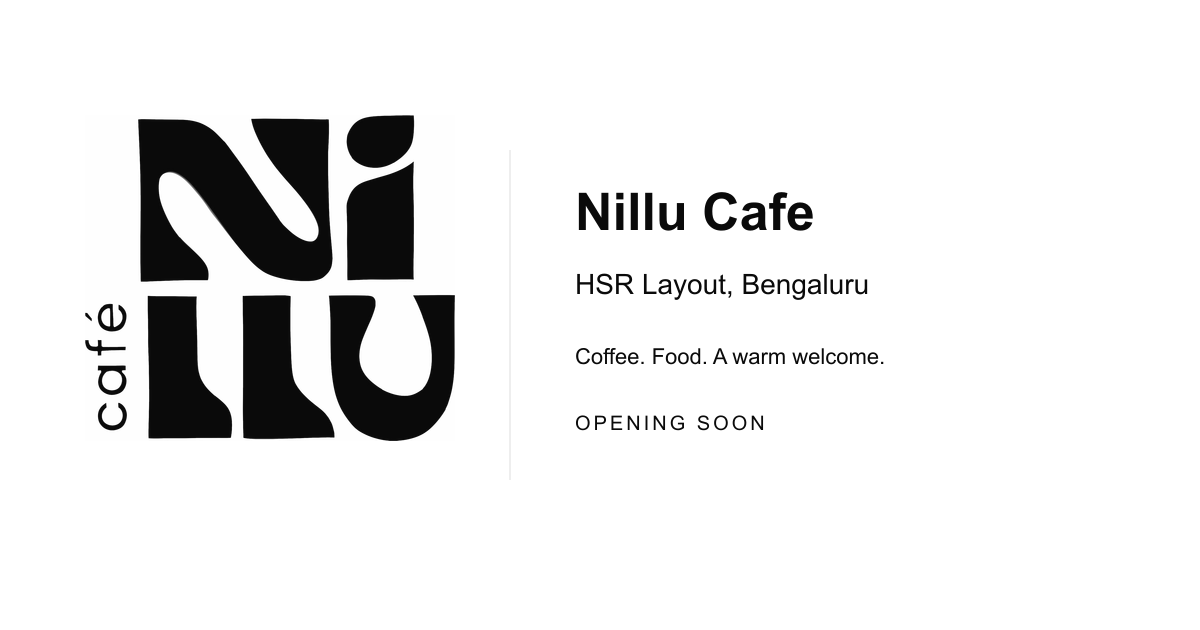
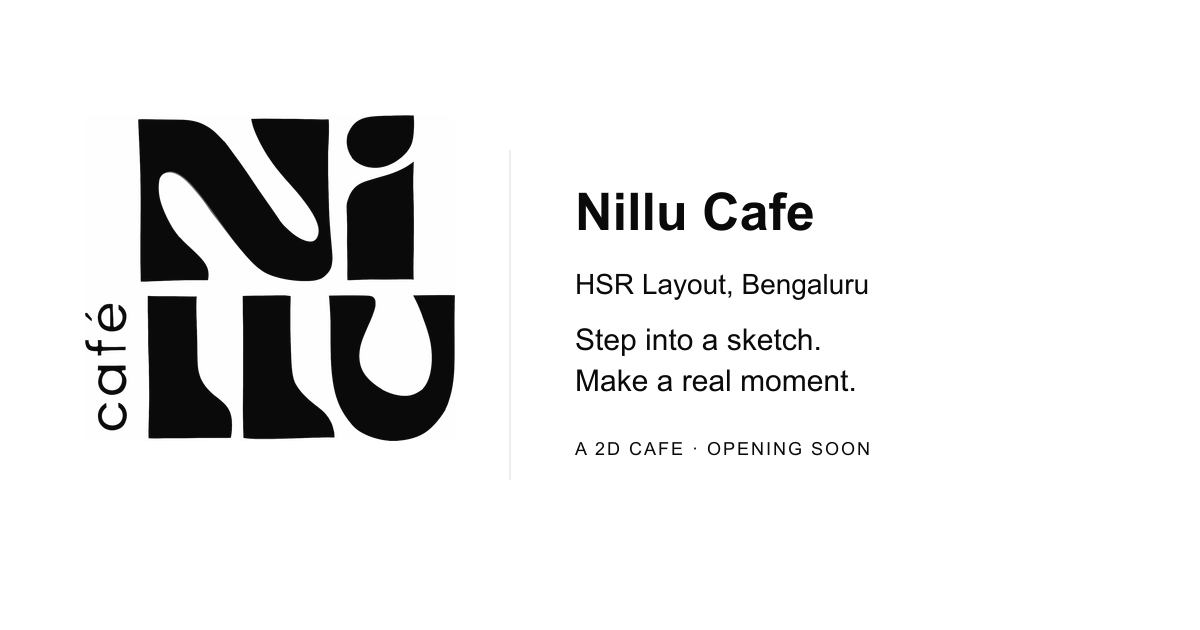
Introduce 2D cafe positioning and align Pages publishing

Changed region(s): [[0.4625, 0.5127, 0.74, 0.6333], [0.4625, 0.6635, 0.74, 0.7238]]

diff --git a/src/App.tsx b/src/App.tsx
@@ -23,7 +23,7 @@ export default function App() {
   <SiteHeader/>
   <main id="top">
    <Suspense fallback={<div className="experience-loading">Preparing your pause…</div>}><WalkIdentity embedded/></Suspense>
-   <section id="about" className="about-section"><Reveal><span className="kicker">OUR STORY</span><h2>Our name means stop.<br/><em>Our welcome invites you to stay.</em></h2><div className="about-bottom"><StoryWord/><p>“<span lang="kn">ನಿಲ್ಲು</span>” means “stop” in Kannada. That simple word holds the idea behind Nillu Cafe: a place to step out of the everyday rush, enjoy something good, and spend time with the people who matter—including yourself.</p></div></Reveal></section>
+   <section id="about" className="about-section"><Reveal><span className="kicker">OUR STORY</span><h2>Our name means stop.<br/><em>Our space gives you a reason.</em></h2><div className="about-bottom"><StoryWord/><p>“<span lang="kn">ನಿಲ್ಲು</span>” means “stop” in Kannada. We’re bringing that invitation to life through an illustrated 2D setting, food to look forward to, and a warm welcome. Come for a coffee, a catch-up, or a celebration of your own.</p></div></Reveal></section>
    <div className="experience-island"><Suspense fallback={<div className="experience-loading">Preparing your pause…</div>}><Experience/></Suspense></div>
    <section className="bites-section" id="bites"><Reveal><span className="kicker">QUICK SNACKS</span><h2>A little bite.<br/>A longer conversation.</h2><p>A snack between plans or something to share across the table. Sometimes, a small bite is all you need to stay a little longer.</p></Reveal><span className="bites-word" aria-hidden="true">little<br/><em>bites.</em></span></section>
    <section className="hospitality-section" id="hospitality"><Reveal><span className="kicker">THE NILLU WAY</span><h2>Good food brings you in.<br/><em>A warm welcome makes you stay.</em></h2><p className="hospitality-lead">At Nillu, hospitality means listening, paying attention, and making room for the way you want to spend your time—alone, together, or celebrating.</p><div className="service-grid"><article><span>01 / THE EVERYDAY</span><h3>Time for yourself.</h3><p>A coffee, a snack, and a moment to enjoy your own company.</p></article><article><span>02 / TOGETHER</span><h3>Time together.</h3><p>Meet for a catch-up, share something to eat, and let the conversation take its time.</p></article><article><span>03 / THE CELEBRATIONS</span><h3>Something to celebrate.</h3><p>Custom designs and 2D cakes for birthdays, milestones, and moments worth marking.</p></article></div></Reveal></section>
@@ -31,6 +31,6 @@ export default function App() {
    <Visit/>
    <section className="closing" id="pause"><Reveal><span className="kicker">COFFEE. FOOD. A WARM WELCOME.</span><p lang="kn" className="regional-word">ಮತ್ತೆ ಬನ್ನಿ</p><h2>Come for a coffee.<br/><em>Stay for your own reasons.</em></h2><a href="#top" className="closing-link">Back to the beginning <span>↑</span></a></Reveal></section>
   </main>
-  <footer className="site-footer"><a href="#top"><img src={logo} alt="Nillu Cafe" width={1304} height={1148}/></a><p>A PLACE WORTH PAUSING FOR.</p><span>© {new Date().getFullYear()} Nillu Cafe</span><small>Food visuals are illustrative; actual presentation may vary.</small></footer>
+  <footer className="site-footer"><a href="#top"><img src={logo} alt="Nillu Cafe" width={1304} height={1148}/></a><p>STEP INTO A SKETCH. MAKE A REAL MOMENT.</p><span>© {new Date().getFullYear()} Nillu Cafe</span><small>Food visuals are illustrative; actual presentation may vary.</small></footer>
  </>
 }

diff --git a/src/components/WalkIdentity.tsx b/src/components/WalkIdentity.tsx
@@ -42,8 +42,8 @@ export default function WalkIdentity({embedded=false}:{embedded?:boolean}){
  return <div className={`walk-preview ${embedded?'walk-embedded':''}`}>
   {!embedded&&<header className="walk-preview-header"><a href="/" className="walk-brand" aria-label="Nillu Cafe current website"><img src={logo} alt="Nillu Cafe" width={1304} height={1148}/><sup>™</sup></a><span>A NILLU STORY</span><a href="/">Current website <span aria-hidden="true">↗</span></a></header>}
   <section className="walk-story" aria-labelledby={embedded?'site-title':'walk-title'}>
-   {embedded&&<h1 id="site-title" className="sr-only">Nillu Cafe in HSR Layout, Bengaluru — opening soon</h1>}
-   <div className="walk-copy"><p className="walk-location">Opening soon.<span>HSR Layout, Bengaluru</span></p><div key={phase} className={phase==='walk'?'':'walk-copy-enter'}><span className="walk-kicker">{current.number}</span><Heading id="walk-title" className="walk-title">{current.title}<br/><em>{current.accent}</em></Heading><p className="walk-support">{current.copy}</p></div></div>
+   {embedded&&<h1 id="site-title" className="sr-only">Nillu Cafe in HSR Layout, Bengaluru — a 2D cafe opening soon</h1>}
+   <div className="walk-copy"><p className="walk-location">Opening soon.<span>A 2D café · HSR Layout, Bengaluru</span></p><div key={phase} className={phase==='walk'?'':'walk-copy-enter'}><span className="walk-kicker">{current.number}</span><Heading id="walk-title" className={`walk-title ${phase==='walk'||phase==='nillu'?'walk-title-sketch':''}`}>{current.title}<br/><em>{current.accent}</em></Heading><p className="walk-support">{current.copy}</p></div></div>
    <div className="walk-stage" role="img" aria-label="A Chaplin-inspired character in a bowler hat, fitted jacket, and oversized shoes walks in, catches a branded takeaway coffee falling from above, takes a sip, smiles as a few hearts rise and fade, pauses, and reshapes into the original Nillu Cafe logo.">{failed?<img className="walk-fallback" src={logo} alt="Nillu Cafe"/>:<canvas ref={canvas}/>}</div>
    {!embedded&&<div className="walk-controls"><div className="walk-playback"><button className="walk-play" onClick={toggle} disabled={!ready||reduced} aria-label={playing?'Pause animation':elapsed.current>=WALK_DURATION?'Replay animation':'Play animation'}>{playing?'Ⅱ':'▷'}</button><button className="walk-replay" onClick={replay} disabled={!ready||reduced}>Watch again <span aria-hidden="true">↺</span></button></div><div className="walk-chapters" aria-label="Animation chapters">{(['walk','coffee','pause','become','nillu'] as const).map(p=><button data-seek={p} key={p} onClick={()=>seek(WALK_STOPS[p])} className={phase===p?'active':''} aria-pressed={phase===p}>{p==='become'?'Transform':p==='nillu'?'Nillu':p==='walk'?'Walk':p==='coffee'?'Coffee':'Pause'}</button>)}</div>{embedded?<a className="walk-signoff walk-explore" href="#explore">Explore food & drinks ↓</a>:<span className="walk-signoff">PAUSE. STAY. ENJOY.</span>}<label className="walk-scrubber"><span className="sr-only">Animation progress</span><input type="range" min="0" max="1" step=".001" value={progress} onChange={e=>seek(Number(e.target.value)*WALK_DURATION)} aria-valuetext={`${Math.round(progress*100)} percent, ${phase}`}/></label></div>}
    {embedded&&<a className="walk-discover" href="#explore">Explore food & drinks <span aria-hidden="true">↓</span></a>}

diff --git a/src/data/walkStory.ts b/src/data/walkStory.ts
@@ -1,9 +1,9 @@
 import type { Phase } from '../lib/walkTimeline'
 
 export const WALK_STORY:Record<Phase,{number:string;title:string;accent:string;copy:string}>={
- walk:{number:'01 / THE WALK',title:'Somewhere',accent:'to be.',copy:'A day full of places to go and things to do.'},
+ walk:{number:'01 / STEP INSIDE',title:'Step into a sketch.',accent:'Make a real moment.',copy:'A playful 2D café, coming soon to HSR Layout. Coffee, food, something sweet—and a warm welcome.'},
  coffee:{number:'02 / THE COFFEE',title:'A reason',accent:'to stop.',copy:'Sometimes, it starts with a coffee.'},
  pause:{number:'03 / THE PAUSE',title:'One sip.',accent:'A little joy.',copy:'Enjoy the sip. Let the day wait a moment.'},
  become:{number:'04 / TAKING SHAPE',title:'That’s',accent:'Nillu.',copy:'Kannada for “stop.” Our invitation to slow down.'},
- nillu:{number:'05 / NILLU CAFE',title:'A place worth',accent:'pausing for.',copy:'Coffee, fresh flavours, and a warm welcome at Nillu Cafe.'},
+ nillu:{number:'05 / NILLU CAFE',title:'Step into a sketch.',accent:'Make a real moment.',copy:'A playful 2D café, coming soon to HSR Layout. Coffee, food, something sweet—and a warm welcome.'},
 }

diff --git a/src/data/site.ts b/src/data/site.ts
@@ -4,10 +4,10 @@ import { VISIT } from './visit.ts'
 export const SITE = {
   url: 'https://nillu.cafe/',
   name: 'Nillu Cafe',
-  title: 'Nillu Cafe in HSR Layout, Bengaluru | Opening Soon',
-  description: 'Nillu Cafe is opening soon in HSR Layout, Bengaluru. Discover coffee, fresh juices, smoothie bowls, quick snacks, desserts and custom cakes.',
+  title: 'Nillu Cafe | 2D Cafe in HSR Layout — Opening Soon',
+  description: 'A playful 2D cafe is coming to HSR Layout, Bengaluru. Discover Nillu Cafe: coffee, fresh juices, bowls, bites, desserts and cakes with a warm welcome.',
   image: 'https://nillu.cafe/social-preview.png',
-  imageAlt: 'Nillu Cafe — opening soon in HSR Layout, Bengaluru. Coffee, food, and a warm welcome.',
+  imageAlt: 'Nillu Cafe — a playful 2D cafe coming soon to HSR Layout, Bengaluru. Step into a sketch. Make a real moment.',
 }
 
 // Organization is appropriate before a complete street address is confirmed.

diff --git a/src/styles.css b/src/styles.css
@@ -140,3 +140,6 @@ body{font-weight:400}a{text-decoration:none}section[id]{scroll-margin-top:90px}.
 /* A studio placeholder stays white until the live scene is ready. */
 @media(prefers-reduced-motion:no-preference){.scene-fallback{visibility:hidden}}
 .scene-error-fallback,html.graphics-failed .scene-fallback{visibility:visible}
+
+/* Keep the complete two-line brand invitation readable at every viewport. */
+.walk-copy .walk-title.walk-title-sketch{font-size:clamp(30px,4.4vw,70px)}

diff --git a/src/lib/enhancePage.ts b/src/lib/enhancePage.ts
@@ -52,6 +52,7 @@ export function enhancePage() {
   startWalkPlayer(canvas, reduced, next => {
     if (next === phase) return
     phase = next
+    title.classList.toggle('walk-title-sketch', next === 'walk' || next === 'nillu')
     const current = WALK_STORY[next], accent = document.createElement('em')
     accent.textContent = current.accent
     title.replaceChildren(document.createTextNode(current.title), document.createElement('br'), accent)

diff --git a/README.md b/README.md
@@ -40,9 +40,9 @@ The cafe is opening soon in HSR Layout, Bengaluru. Hours are labelled planned. T
 
 ## GitHub Pages publishing
 
-The Pages site must serve compiled `dist` output, never the source `index.html` that imports `/src/main.tsx`. `.github/workflows/deploy-pages.yml` installs dependencies, builds with Node 22, and publishes `dist`.
+The Pages site must serve compiled `dist` output, never the source `index.html` that imports `/src/main.tsx`. `.github/workflows/deploy-pages.yml` retains the manual artifact-deployment path: it installs dependencies, builds with Node 22, and publishes `dist` when GitHub Actions runners and workflow-based Pages publishing are available.
 
-GitHub blocked the custom workflow on 22 October 2026 because of an account billing lock. The site was restored by publishing the locally compiled output to `gh-pages`, with Pages configured to publish that branch at `/`. This native Pages deployment succeeds. While this fallback is active, pushing source changes to `main` alone does not update the live site; rebuild and update `gh-pages` as well. Once the billing lock is resolved, switch Pages back to the GitHub Actions source and run the workflow.
+GitHub blocked the custom workflow on 22 October 2026 because of an account billing lock. The site was restored by publishing the locally compiled output to `gh-pages`, with Pages configured to publish that branch at `/`. This native Pages deployment succeeds. While this fallback is active, pushing source changes to `main` alone does not update the live site; rebuild and update `gh-pages` as well. The custom artifact workflow is manual-only while this branch publishing path is active, so a source push does not start a runner that is blocked by the billing lock. Once the billing lock is resolved, switch Pages back to the GitHub Actions source, restore the workflow push trigger, and run the workflow. Verify the built-in “pages build and deployment” run and the live HTML after each gh-pages publish.
 
 ## Typography and responsive layout
 
@@ -89,3 +89,10 @@ The native controller calls the shared `walkTimeline.ts`/`walkIdentity.ts` story
 renderer; the `?preview=walk` study uses the same renderer through React.
 
 See `MOBILE-PERFORMANCE.md` for the latest measured results and validation.
+
+## 2D cafe positioning
+
+The owner has confirmed a planned illustrated 2D store concept. The lead line is
+“Step into a sketch. Make a real moment.” The website and search descriptions
+state that the cafe is coming soon. The supplied store-design reference is a
+concept reference and has not been published as a photograph of Nillu.
